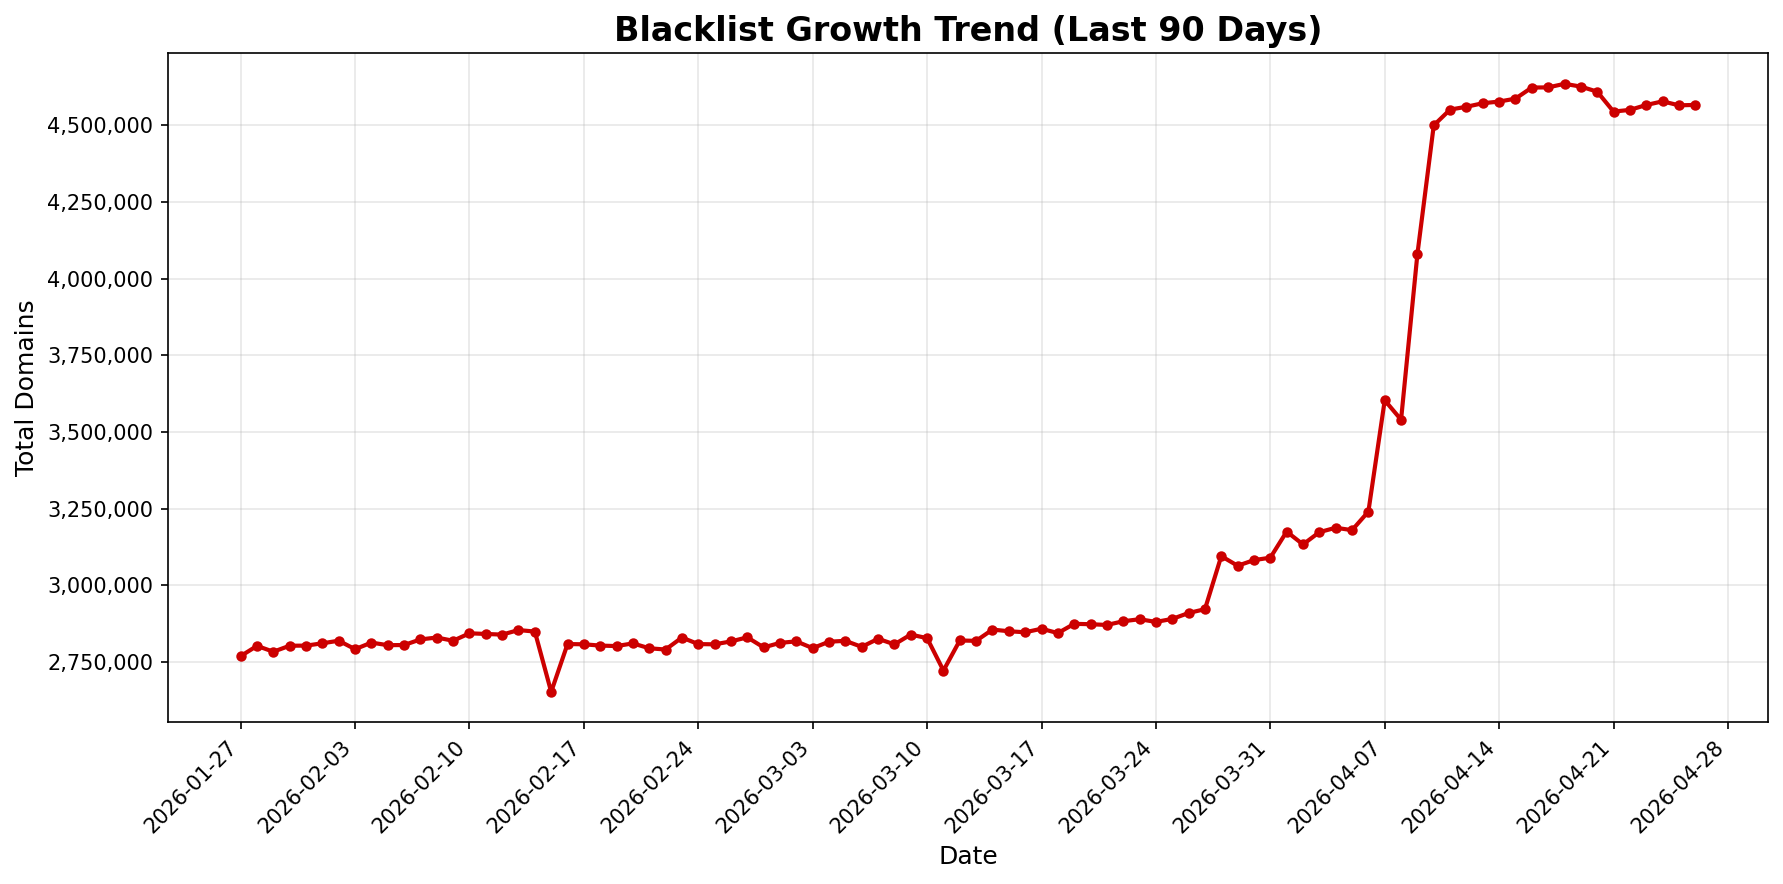
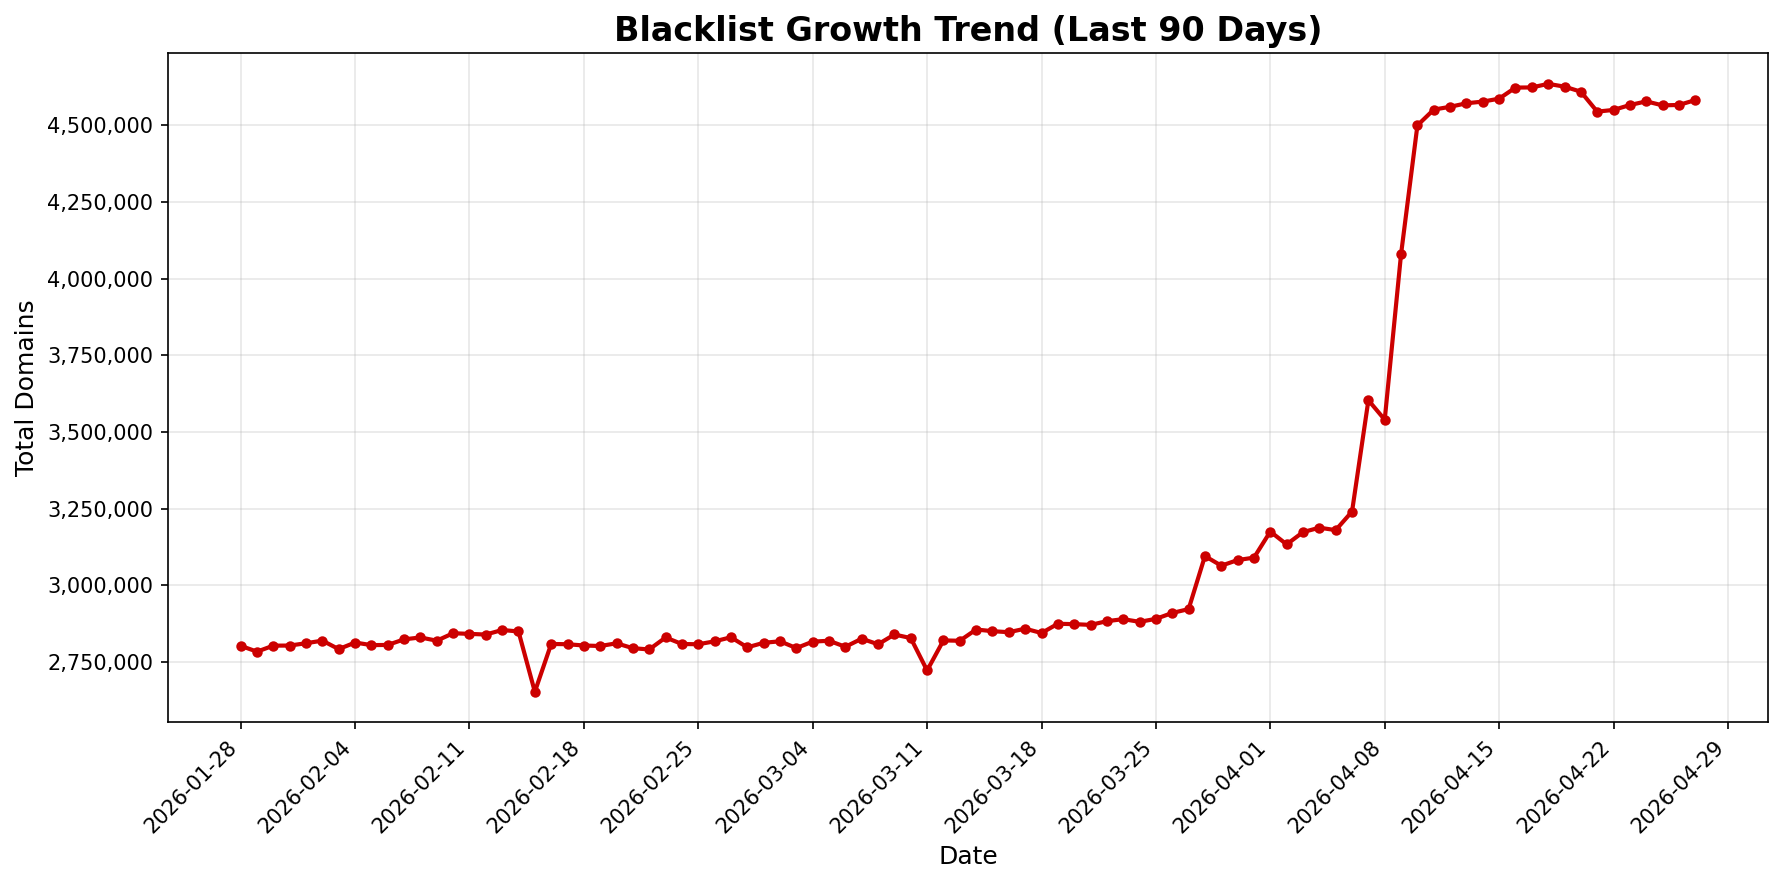
📊 Update daily statistics [skip ci]

Changed region(s): [[0.1234, 0.5192, 0.7712, 0.7941], [0.7403, 0.0916, 0.9563, 0.4887], [0.6786, 0.8552, 0.7095, 0.8857]]

diff --git a/README.md b/README.md
@@ -13,20 +13,20 @@ https://github.com/fabriziosalmi/blacklists/releases/download/latest/blacklist.t
 - Bind, PowerDNS (RPZ): **[rpz_blacklist.txt](https://github.com/fabriziosalmi/blacklists/releases/download/latest/rpz_blacklist.txt)** 
 
 
-![Static Badge](https://img.shields.io/badge/blacklists-61-000000) ![Static Badge](https://img.shields.io/badge/blacklisted-4566313-cc0000) ![Static Badge](https://img.shields.io/badge/whitelisted-2268-00CC00) ![Static Badge](https://img.shields.io/badge/streaming_blacklist-28107-000000) ![GitHub issues](https://img.shields.io/github/issues/fabriziosalmi/blacklists)
+![Static Badge](https://img.shields.io/badge/blacklists-61-000000) ![Static Badge](https://img.shields.io/badge/blacklisted-4582161-cc0000) ![Static Badge](https://img.shields.io/badge/whitelisted-2268-00CC00) ![Static Badge](https://img.shields.io/badge/streaming_blacklist-28107-000000) ![GitHub issues](https://img.shields.io/github/issues/fabriziosalmi/blacklists)
 <!-- STATS_START -->
 ## Daily Statistics
 
-**Last Updated**: 2026-04-26 04:25 UTC
+**Last Updated**: 2026-04-27 04:33 UTC
 
 | Metric | Value |
 |--------|-------|
-| **Total Domains** | **4,566,313** |
+| **Total Domains** | **4,582,161** |
 | **Whitelisted** | 2,268 |
 | **Sources** | 61 |
-| **Daily Change** | +1,348 (+0.03%) |
-| **Weekly Change** | -59,719 (-1.29%) |
-| **Monthly Change** | +1,644,296 (+56.27%) |
+| **Daily Change** | +15,848 (+0.35%) |
+| **Weekly Change** | -27,392 (-0.59%) |
+| **Monthly Change** | +1,487,170 (+48.05%) |
 
 ![Trend Chart](stats/trend.png)
 
